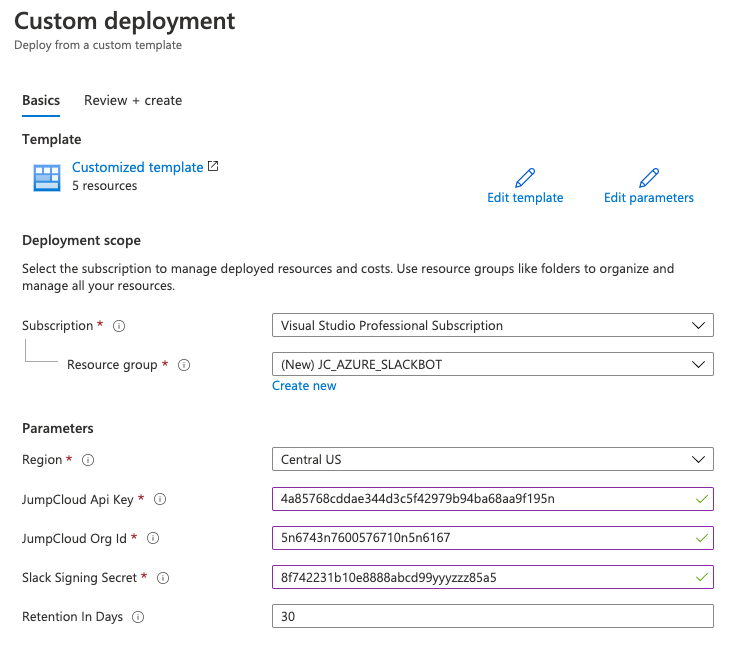
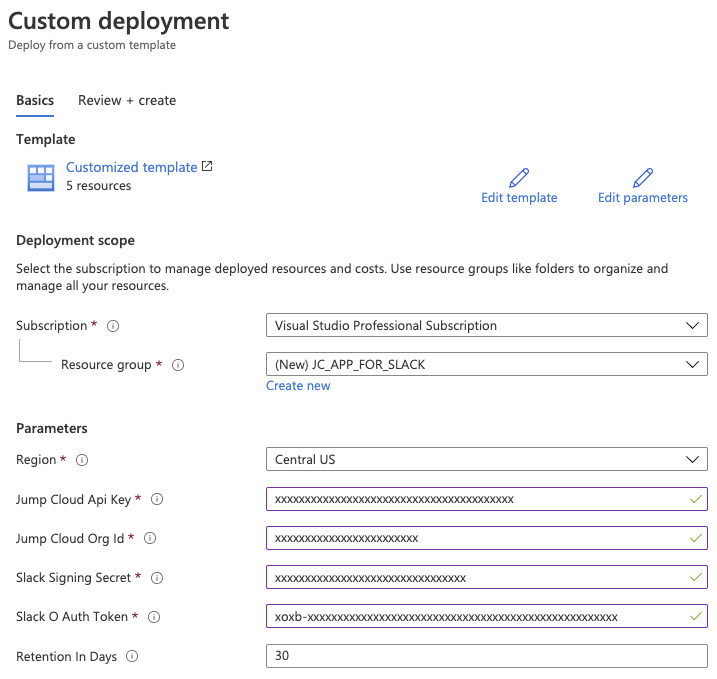
Azure Documentation

diff --git a/Azure/README.md b/Azure/README.md
@@ -29,11 +29,20 @@ The following steps should be followed to deploy the JumpCloud App for Slack to 
 
 Creating a new Slack App is relatively simple. Refer to [Slack's documentation](https://api.slack.com/apps) as necessary. Create a net new Slack App in your Slack workspace before continuing to the next step.
 
+### Configure Slack Permissions
+
+Once you have created your app, click "OAuth and Permissions". Scroll down to "Scopes". Add the following OAuth scopes to your Slack Application.
+
+![Permissions](./images/slackPermissions.PNG)
+
+Once that is done, install your Slack Application in your Workspace. This will generate a Bot OAuth token, which will be used when configuring the JumpCloud App for Slack in Azure.
+
+![OAuthToken](./images/OAuthToken.png)
 ### Configure Azure Parameters
 
 Click the "Deploy to Azure" button to open the deployment template in your Azure tenant.
 
-[![Deploy to Azure](https://aka.ms/deploytoazurebutton)](https://portal.azure.com/#create/Microsoft.Template/uri/https%3A%2F%2Fraw.githubusercontent.com%2FTheJumpCloud%2Fsupport-admin-tools%2Fmaster%2FJumpCloud.Azure%2FArmTemplates%2FdeployJCPowerShellSlackBot.json%3Ftoken%3DAM7NDWO3GZGURWVXGKJP6ZK72FD3C)
+[![Deploy to Azure](https://aka.ms/deploytoazurebutton)](https://portal.azure.com/#create/Microsoft.Template/uri/https%3A%2F%2Fraw.githubusercontent.com%2FTheJumpCloud%2Fjumpcloud-slack-app%2FSA-1464-GoLive%2FAzure%2FAzureTemplate%2FdeployJCPowerShellSlackbot.json%3Ftoken%3DAM7NDWLSIUCKJLRVJUFI4UDADLOBI)
 
 After clicking the "Deploy to Azure" button and logging in to your Azure tenant, fill out the required parameters to build the JumpCloud App for Slack in your Azure tenant.
 
@@ -59,6 +68,24 @@ Paste this URL into the Slack App Slash Command "Request URL Field"
 
 ![Parameters](./images/slackAppRequestUrl.png)
 
-### Test the App
+Before saving, check the "Escape channels, users, and links sent to your app" box. Click "Save".
 
-After configuring the slack app, try to run one of the commands in your Slack Channel, your command will be processed and returned via Azure resources.
+![Escape channels, users and links](./images/slackEscape.png)
+
+### Initialize the App
+
+After configuring the slack app, jump back to the Slack Channel where the App was configured and send the app a command:
+
+`/slashCommandName user help`
+
+The initialization of the JumpCloud App for Slack may take some time to download the required PowerShell modules, by default Slack Slash Commands to a url must return a response in three seconds, while Azure Initializes the JumpCloud App for Slack you may see a response on your slack channel stating that your slack command failed.
+
+![SlackResponse](./images/failedSlashCommand.png)
+
+If watching the HttpTrigger function logs, the console may return a message similar to the following until the function and it's PowerShell modules are initialized. Until the managed dependencies are finished downloading the App will queue commands triggered through the Slack Channel.
+
+![HttpTriggerResponse](./images/httpTriggerNotice.png)
+
+After the function has initialized, the Slack Channel should populate your JumpCloud App for Slack commands.
+
+![helpResponse](./images/helpResponse.png)

diff --git a/AWS/README.md b/AWS/README.md
@@ -31,7 +31,7 @@ Fill in these values and acknowledge that the app will create custom IAM roles a
 
 ### Configure Slack
 
-After the resources are built, the function url will have to be copied to your Slack App's slash command "Request URL" field to link the Slash Command to the resources in Azure.
+After the resources are built, the function url will have to be copied to your Slack App's slash command "Request URL" field to link the Slash Command to the resources in AWS.
 
 Navigate to the newly created CloudFormation Stack. Click on the "Resources" tab and open the "SlackAppAPI".
 
